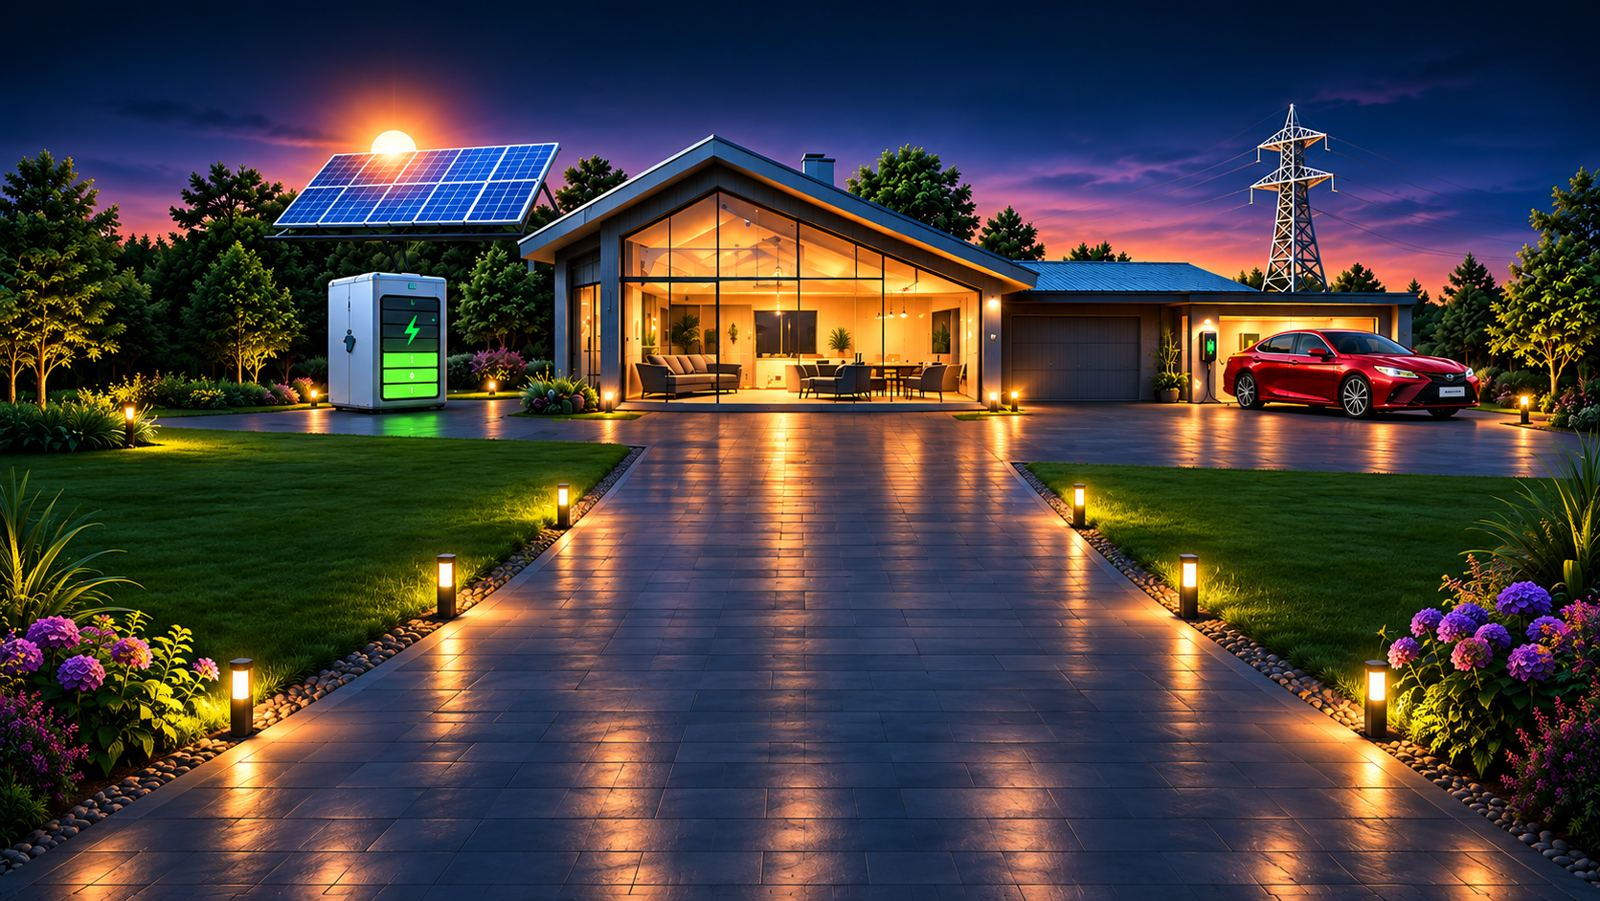
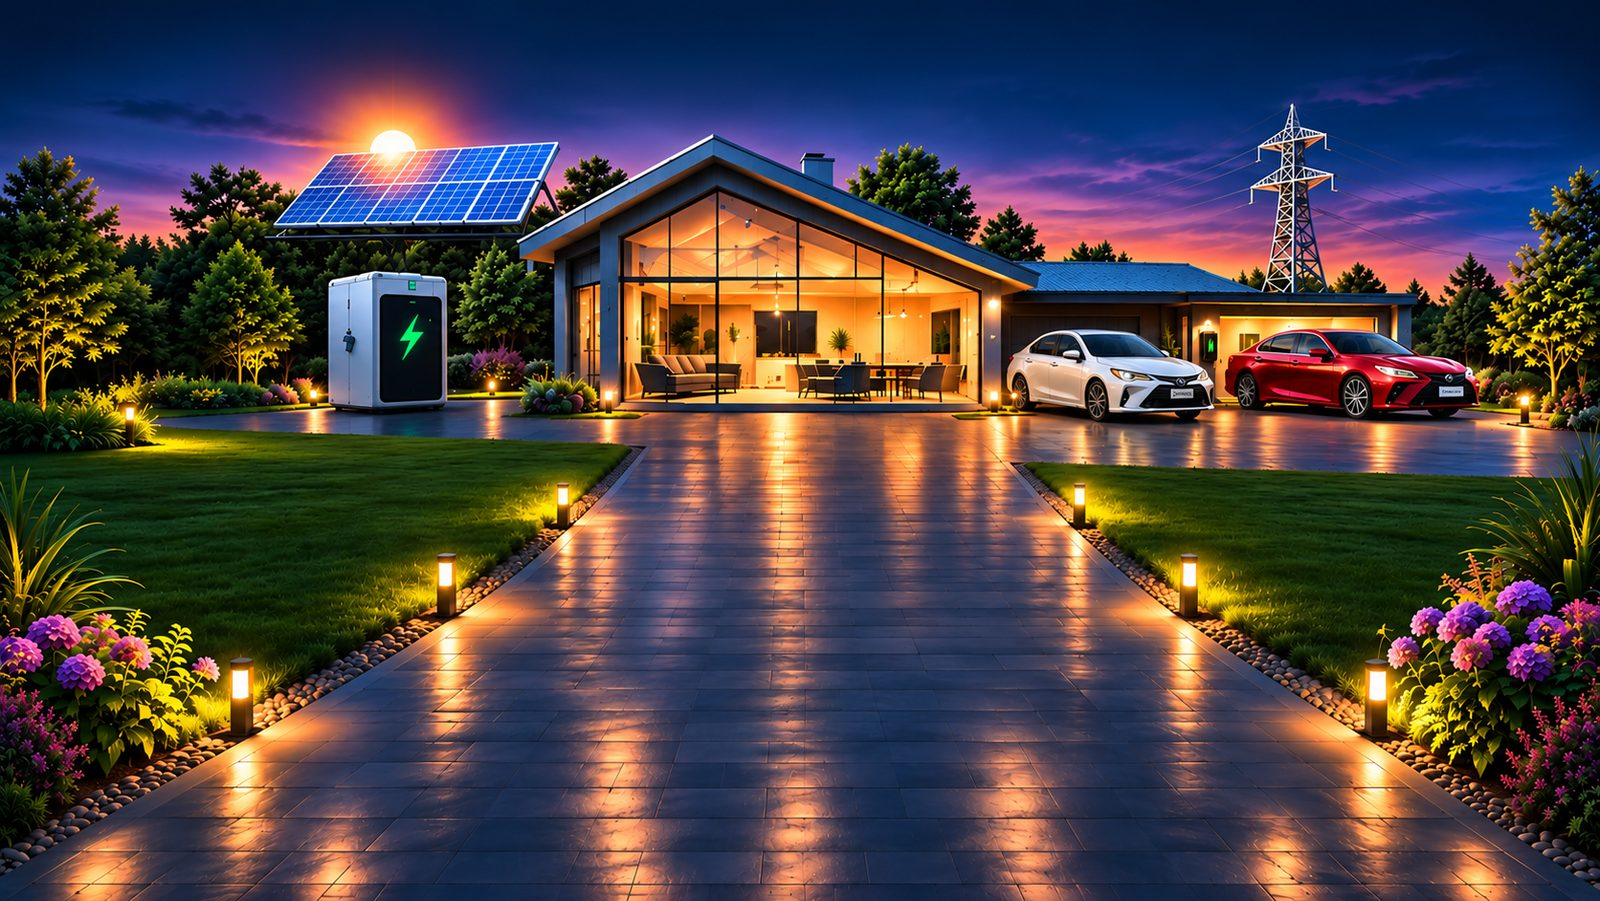
v0.6.44: nowe tlo, magazyn z 6 poprzeczkami SOC, slup z obciazeniem przylacza
Claude-Session: https://claude.ai/code/session_017S8EUFR4wewgnKGkTspWSW

diff --git a/custom_components/ems/frontend/tabs/overview.js b/custom_components/ems/frontend/tabs/overview.js
@@ -10,12 +10,45 @@ const SCENE = new URL("../scene.jpg", import.meta.url).href;
 // Scena = obrazek uzytkownika (bez linii przesylu); kafelki nakladane DOKLADNIE na miejsca kafelkow wpisanych w obrazek (procenty kadru 1671x400, grafika uzytkownika bez kafelkow).
 const POS = { pv: [1.2, 5.0, 15.5, 30.0], bat: [1.2, 40.0, 17.0, 44.0], dom: [42.0, 50.0, 15.5, 27.0], grid: [84.5, 5.0, 14.3, 30.0], top: [37.0, 1.5, 26.0, 11.0] };
 // Linie przesylu (od zrodla do domu) w ukladzie 1671x400
+// v0.6.44: nowe tlo uzytkownika (1672x941), kadr y 60–460 -> 1672x400
 const FLOW = {
-  pv: "M430 168 C440 250 540 252 600 255 L700 255",
-  bat: "M466 300 C540 300 560 282 610 282 L700 282",
-  grid: "M1350 232 C1340 268 1150 265 1060 265 L962 265",
-  car: "M962 292 L1060 292 C1120 292 1150 302 1200 302 L1252 302",
+  pv: "M440 182 C450 262 560 300 650 300",
+  bat: "M466 322 C540 322 590 322 650 322",
+  grid: "M1350 246 C1340 292 1180 300 1062 300",
+  car: "M1062 330 L1290 330",
 };
+// magazyn (ekran) i slup w ukladzie kadru 1672x400
+const BATSCR = [397, 247, 65, 113];
+const PYLON = "1350,46 1356,80 1395,90 1395,98 1362,100 1366,128 1398,130 1398,138 1370,140 1376,180 1392,246 1316,246 1330,180 1336,140 1305,138 1305,130 1338,128 1341,100 1306,98 1306,90 1344,80";
+function batBars(soc, bp) {
+  const [x, y, w, hh] = BATSCR, chg = bp < -20, dis = bp > 20, n = soc == null ? 0 : [0, 1, 2, 3, 4, 5].filter(i => soc >= i * 100 / 6 + 100 / 12).length;
+  const bars = [0, 1, 2, 3, 4, 5].map(i => `<div class="bb${i < n ? " on" : ""}${chg ? " ch" : ""}${chg && i === n ? " pl" : ""}${dis && i === n - 1 ? " dn" : ""}"></div>`).join("");
+  return `<div class="sc-bat" style="left:${x / 16.72}%;top:${y / 4}%;width:${w / 16.72}%;height:${hh / 4}%"><div class="bbs">${bars}</div>
+    <div class="sc-bl">${soc == null ? "–" : Math.round(soc) + " %"}${chg ? ' <i style="color:#ffa53a">↑</i>' : dis ? ' <i style="color:#3dff8f">↓</i>' : ""}</div></div>`;
+}
+function pylon(grid, max) {
+  const a = Math.abs(grid || 0), pc = max > 0 ? a / max : 0, t = Math.min(pc, 1), h = 200 * t, exp = grid < -20;
+  const mix = (p, q) => "#" + [1, 3, 5].map(i => Math.round(parseInt(p.substr(i, 2), 16) * (1 - t) + parseInt(q.substr(i, 2), 16) * t).toString(16).padStart(2, "0")).join("");
+  const col = exp ? "#3aa0ff" : mix("#ff7a85", "#c4001a"), col0 = exp ? "#1e6fd9" : mix("#ff4d5e", "#8a0010");
+  const lamp = pc >= 1 ? "#ff2238" : pc >= 0.8 ? "#facc15" : "#22e07a", ang = Math.PI * (1 - t);
+  return `<svg class="sc-pyl" viewBox="0 0 1672 400" preserveAspectRatio="none"><defs><clipPath id="pylc"><polygon points="${PYLON}"/></clipPath>
+    <linearGradient id="pylg" x1="0" x2="0" y1="1" y2="0"><stop offset="0" stop-color="${col0}"/><stop offset="1" stop-color="${col}"/></linearGradient>
+    <filter id="pylf"><feGaussianBlur stdDeviation="3" result="b"/><feMerge><feMergeNode in="b"/><feMergeNode in="SourceGraphic"/></feMerge></filter></defs>
+    <g clip-path="url(#pylc)"><rect x="1300" y="${246 - h}" width="100" height="${h}" fill="url(#pylg)" opacity="${(0.55 + 0.4 * t).toFixed(2)}" style="mix-blend-mode:screen"/></g>
+    ${h > 1 ? `<line x1="1300" x2="1400" y1="${246 - h}" y2="${246 - h}" stroke="${col}" stroke-width="1.5" opacity=".8" filter="url(#pylf)"/>` : ""}
+    <circle cx="1350" cy="43" r="6" fill="${lamp}" filter="url(#pylf)" class="${pc >= 0.95 ? "pyl-bl" : ""}"/></svg>
+    <div class="sc-pl">${exp ? "⬆" : "⬇"} <b>${(a / 1000).toFixed(1).replace(".", ",")} kW</b> · ${Math.round(pc * 100)} %<svg viewBox="0 0 60 34" class="sc-g"><path d="M5 30 A25 25 0 0 1 55 30" fill="none" stroke="#ffffff22" stroke-width="6"/><path d="M5 30 A25 25 0 0 1 55 30" fill="none" stroke="${col}" stroke-width="6" stroke-dasharray="${t * 100} 100" pathLength="100"/><line x1="30" y1="30" x2="${(30 + 22 * Math.cos(ang)).toFixed(1)}" y2="${(30 - 22 * Math.sin(ang)).toFixed(1)}" stroke="#fff" stroke-width="2"/></svg></div>`;
+}
+const SC_CSS = `.sc-bat{position:absolute;pointer-events:none}.bbs{position:absolute;inset:9% 14% 7% 14%;display:flex;flex-direction:column-reverse;gap:5%}
+.bb{flex:1;border-radius:.2cqw;background:#0f2a1c;border:1px solid #1d4a31;opacity:.55;transition:all .4s}
+.bb.on{background:linear-gradient(90deg,#16c060,#3dff8f,#16c060);border-color:#5dffa3;opacity:.95;box-shadow:0 0 .4cqw #3dff8f,0 0 .9cqw #22e07a88}
+.bb.ch.on{background:linear-gradient(90deg,#d0650a,#ffa53a,#d0650a);border-color:#ffc27a;box-shadow:0 0 .4cqw #ffa53a,0 0 .9cqw #ff9f1a88}
+.bb.pl{animation:bbpl 1.2s ease-in-out infinite}@keyframes bbpl{0%,100%{opacity:.3}50%{opacity:1;background:#ffa53a;box-shadow:0 0 .7cqw #ffa53a}}
+.bb.dn{animation:bbdn 1.6s ease-in-out infinite}@keyframes bbdn{0%,100%{opacity:.95}50%{opacity:.55}}
+.sc-bl,.sc-pl{position:absolute;white-space:nowrap;color:#fff;font-weight:600;text-shadow:0 0 4px #000,0 0 10px #000,0 1px 2px #000;background:#0b182833;border-radius:.6cqw;padding:.1cqw .5cqw;pointer-events:none}
+.sc-bl{left:50%;top:-30%;transform:translateX(-50%);font-size:1.5cqw}.sc-bl i{font-style:normal;font-weight:800}
+.sc-pyl{position:absolute;inset:0;width:100%;height:100%;pointer-events:none}.pyl-bl{animation:pylbl .6s steps(2) infinite}@keyframes pylbl{50%{opacity:.15}}
+.sc-pl{left:78.3%;top:1%;transform:translateX(-50%);font-size:1.15cqw;display:flex;align-items:center;gap:.4cqw;font-weight:500}.sc-pl b{font-size:1.25em}.sc-g{width:2.8cqw}`;
 const sp = n => n == null || isNaN(n) ? "–" : Math.round(n).toString().replace(/\B(?=(\d{3})+(?!\d))/g, "\u00a0");   // 1 807 (z odstepem jak na wzorze)
 const box = (k, html, cls = "") => { const [l, t, w, h] = POS[k]; return `<div class="sc-card ${cls}" style="left:${l}%;top:${t}%;width:${w}%;height:${h}%">${html}</div>`; };
 const tile = (ic, cls, lab, val, sub, subc, t) => `<div class="ov-tile"><div class="ov-ic ${cls}">${ic}</div><div><div class="ov-lab">${lab}${tip(t)}</div><div class="ov-val">${val}</div><div class="ov-sub" ${subc ? `style="color:${subc}"` : ""}>${sub}</div></div></div>`;
@@ -106,8 +139,8 @@ export function render(c) {
   const nxt = (pa.plan || []).find(s => new Date(s.start) > now && s.action !== "self");
   const L3 = ["l1", "l2", "l3"], kw = w => `${sp(w)} W`;
   const card = (ic, cls, lab, val, sub, sub2, sub3) => `<div class="sc-ic ${cls}">${ic}</div><div class="sc-tx"><div class="sc-lab">${lab}</div><div class="sc-val">${val}</div>${sub ? `<div class="sc-sub">${sub}</div>` : ""}${sub2 || ""}${sub3 ? `<div class="sc-sm">${sub3}</div>` : ""}</div>`;
-  const scene = `<style>${FLOW_CSS}${MANUAL_CSS}${PROFILE_CSS}.ov-pp{position:relative}.ptip{position:absolute;top:4px;z-index:5;background:#0b1622f2;border:1px solid #2a4560;border-radius:8px;padding:6px 9px;font-size:12px;line-height:1.5;pointer-events:none;white-space:nowrap;box-shadow:0 0 12px #000a}.ptip i{display:inline-block;width:9px;height:9px;border-radius:2px;margin-right:5px}.ov-pp svg{touch-action:pan-y}</style><div class="sc"><img src="${SCENE}" alt="Dom, PV, bateria i sieć">
-    ${flowSvg("0 0 1671 400", FLOW, lines(pv, bp, grid), [13, 9, 3.5], "flov")}
+  const scene = `<style>${FLOW_CSS}${MANUAL_CSS}${PROFILE_CSS}${SC_CSS}.ov-pp{position:relative}.ptip{position:absolute;top:4px;z-index:5;background:#0b1622f2;border:1px solid #2a4560;border-radius:8px;padding:6px 9px;font-size:12px;line-height:1.5;pointer-events:none;white-space:nowrap;box-shadow:0 0 12px #000a}.ptip i{display:inline-block;width:9px;height:9px;border-radius:2px;margin-right:5px}.ov-pp svg{touch-action:pan-y}</style><div class="sc"><img src="${SCENE}" alt="Dom, PV, bateria i sieć">
+    ${flowSvg("0 0 1672 400", FLOW, lines(pv, bp, grid), [13, 9, 3.5], "flov")}${pylon(grid, num(h, "number.ems_max_pobor_w", 12000))}${batBars(soc, bp)}
     ${box("top", `<span>${icR(WX[wx?.state] || "cloudSun", 30)}${wx ? ` ${fmt(wx.attributes.temperature, 1, wx.attributes.temperature_unit || "°C")}` : " –"}</span><i></i><span>${icR("calendar", 26)} ${now.toLocaleDateString("pl-PL", { weekday: "short" }).replace(/^./, x => x.toUpperCase())}, ${now.toLocaleDateString("pl-PL")}</span><i></i><span>${icR("clock", 26)} ${now.toLocaleTimeString("pl-PL", { hour: "2-digit", minute: "2-digit" })}</span>`, "sc-top")}
     ${box("pv", card(icR("sun", 34), "y", "PV", kw(pv), `Dziś: ${fmt(pvd, 1, "kWh")}`))}
     ${box("bat", card(icR("batteryBolt", 34), "g", "Bateria", fmt(soc, 0, "%"), `${fmt(bl, 1)} / ${fmt(br, 1, "kWh")}`, `<div class="sc-sub" style="color:${chg > 0 ? "#3ee07a" : bp > 0 ? "#ffad2e" : "#9fb0c3"}">± ${kw(Math.abs(bp))} ${chg > 0 ? ic("arrowUR", 16) : bp > 0 ? ic("arrowDR", 16) : ""}</div>`, toFull))}

diff --git a/custom_components/ems/const.py b/custom_components/ems/const.py
@@ -1,6 +1,6 @@
 """Stale integracji EMS."""
 DOMAIN = "ems"
-VERSION = "0.6.43"
+VERSION = "0.6.44"
 CONF_DEVICE = "device"          # prefiks encji ESPHome, np. "ecobss"
 DEFAULT_DEVICE = "ecobss"
 POLL_NUMBER = "interwal_odczytu"

diff --git a/CHANGELOG.md b/CHANGELOG.md
@@ -1,5 +1,10 @@
 # Zmiany EMS
 
+## 0.6.44
+- Nowe tło użytkownika: `bg.jpg` (wszystkie zakładki) i scena Przeglądu `scene.jpg` (kadr 1672×400), nowe ścieżki linii przesyłu.
+- Magazyn w scenie: 6 poprzeczek SOC na ekranie magazynu (od dołu, ~16,7 % każda) – ładowanie pomarańczowe (następna pulsuje), rozładowanie / postój zielone; nad magazynem % + strzałka ↑ pomarańczowa / ↓ zielona, bez ramki.
+- Słup w scenie: wypełnia się od dołu wg |moc sieci| / „Max pobór z sieci” – pobór od czerwonego do głęboko czerwonego, oddawanie niebieski; lampka na szczycie (zielona / żółta > 80 % / czerwona ≥ 100 %, miga od 95 %); nad słupem kW · % + wskazówka, bez ramki. Kafelki sceny bez zmian (makieta 9C2VuLtZJwX4JWWGkFsPdn).
+
 ## 0.6.43
 - Pmax zakupu – zapis ze sprawdzeniem: po przestawieniu od razu odczyt ustawień, po max 40 s porównanie z falownikiem; nie zgadza się → 2. próba, dalej nie → błąd w logu i ⚠ w Ustawieniach → ⚡ Pmax zakupu (bez zapisu w kółko). W logu: `ZAPIS … proba N`, `POTWIERDZONY`, brak przełącznika (YAML v5.7+) zgłaszany raz.
 
